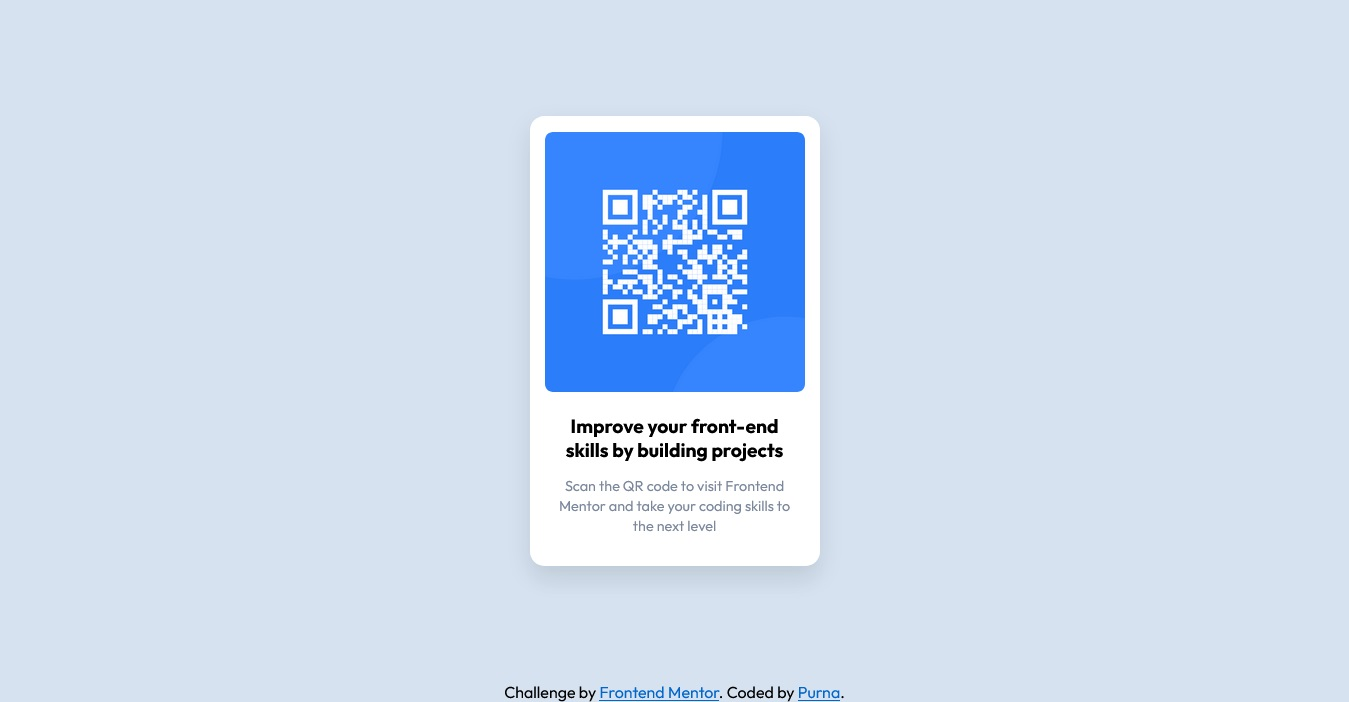
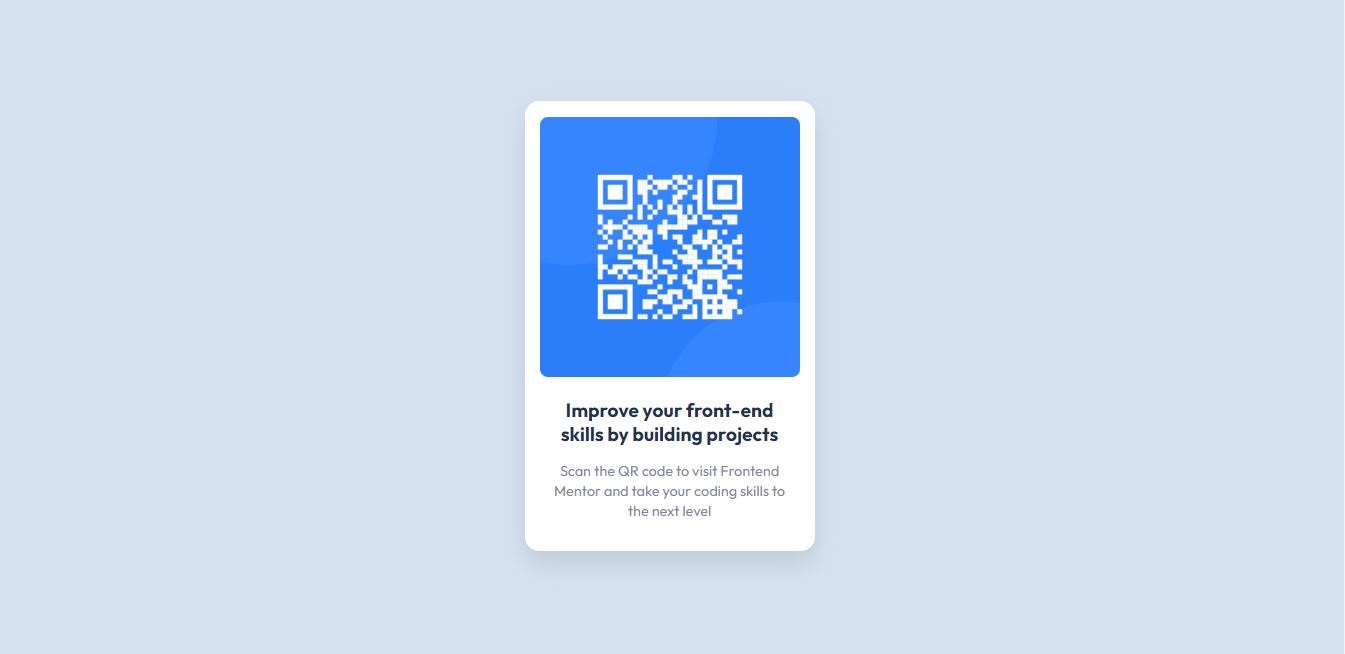
final commit

Changed region(s): [[0.3747, 0.1529, 0.6245, 0.8563], [0.4372, 0.2446, 0.5621, 0.4893], [0.3747, 0.9786, 0.6245, 1.0]]

diff --git a/css/app.css b/css/app.css
@@ -6,6 +6,7 @@
     --Light-gray: hsl(212, 45%, 89%);
     --Grayish-blue: hsl(220, 15%, 55%);
     --Dark-blue: hsl(218, 44%, 22%);
+    
     --new-box-shadow: 0 25px 15px 0 rgba(0, 0, 0, 0.01), 0 10px 25px 0 rgba(0, 0, 0, 0.1);
 }
 
@@ -59,6 +60,7 @@ body {
     margin-bottom: 0.4em;
      font-weight: 700;
     font-size: 1.2em;
+    color: var(--Dark-blue);
 }
 .card_text span{
     
